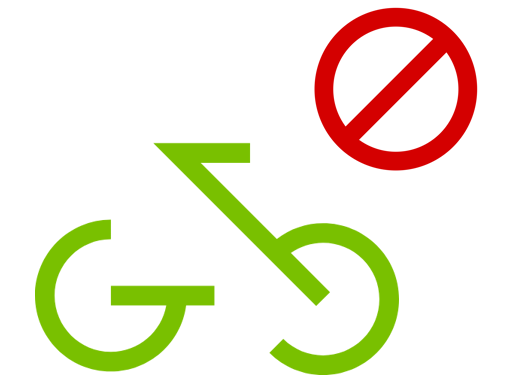
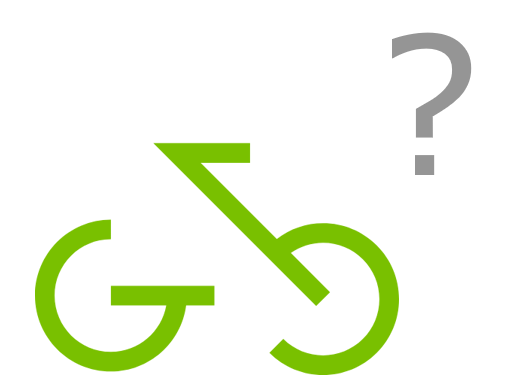
fix: update take unregistered bike button and less zoom on panning to location

Changed region(s): [[0.5938, 0.0, 0.9375, 0.4644]]

diff --git a/scripts/stations.js b/scripts/stations.js
@@ -272,8 +272,8 @@ async function openBikeList(stationSerialNumber) {
 		`
         <div id="openTakeUnregisteredBikeButton" onclick="openTakeUnregisteredBikeMenu('${stationSerialNumber}')">
 			<div id="upperText">
-				Bicicleta com luz vermelha?<br>
-				Não aparece na lista?
+				Bicicleta com luz verde,<br>
+				mas não aparece?
 			</div>
 			<div id="lowerText">
 				Tenta retirar!

diff --git a/scripts/map.js b/scripts/map.js
@@ -336,7 +336,7 @@ function getLocation(zoom = true) {
 						const view = map.getView();
 						view.animate({
 							center: ol.proj.fromLonLat(pos),
-							zoom: 17,
+							zoom: 16,
 							duration: 100,
 						});
 					} else {

diff --git a/assets/style.css b/assets/style.css
@@ -1874,6 +1874,7 @@ input[type="search"]::-webkit-search-results-decoration {
 	left: 3vh;
 	text-align: left;
 	font-weight: bold;
+	font-size: 1.15rem;
 }
 #openTakeUnregisteredBikeButton img {
 	position: absolute;
